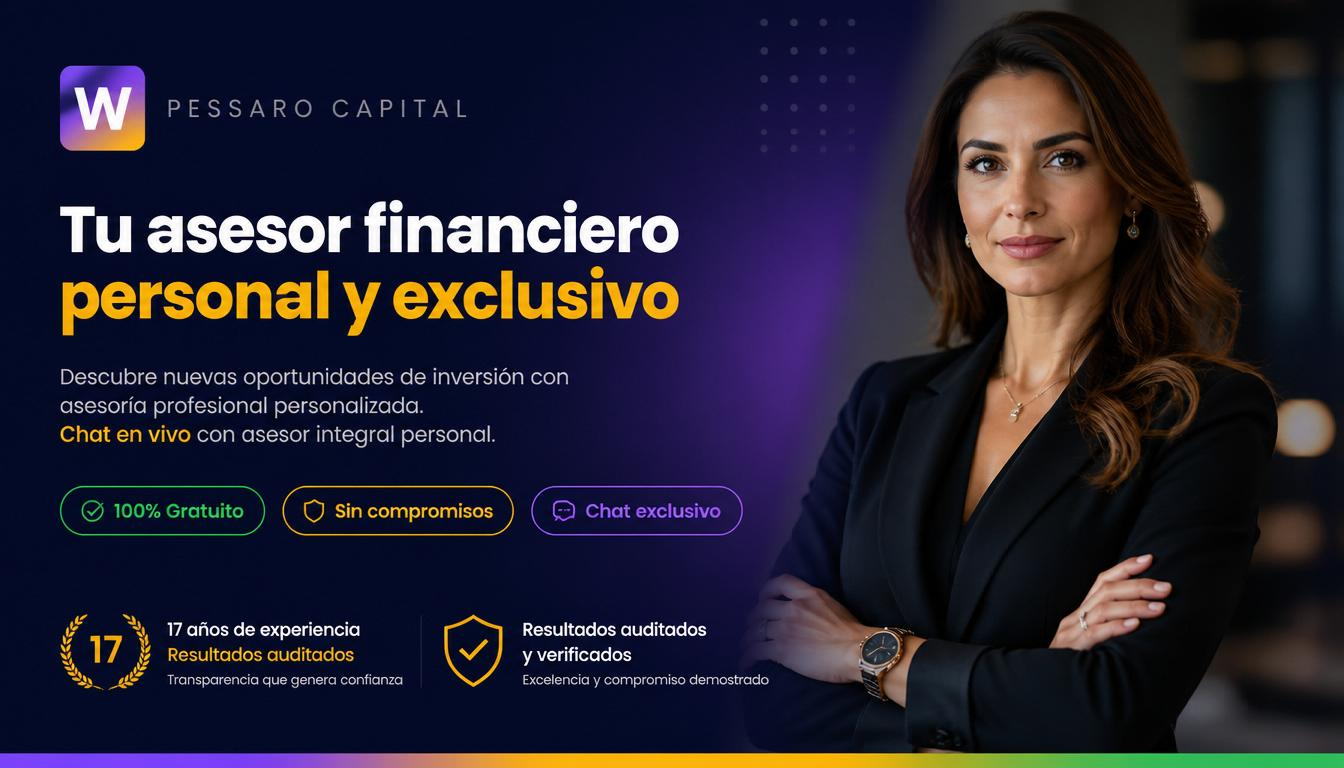
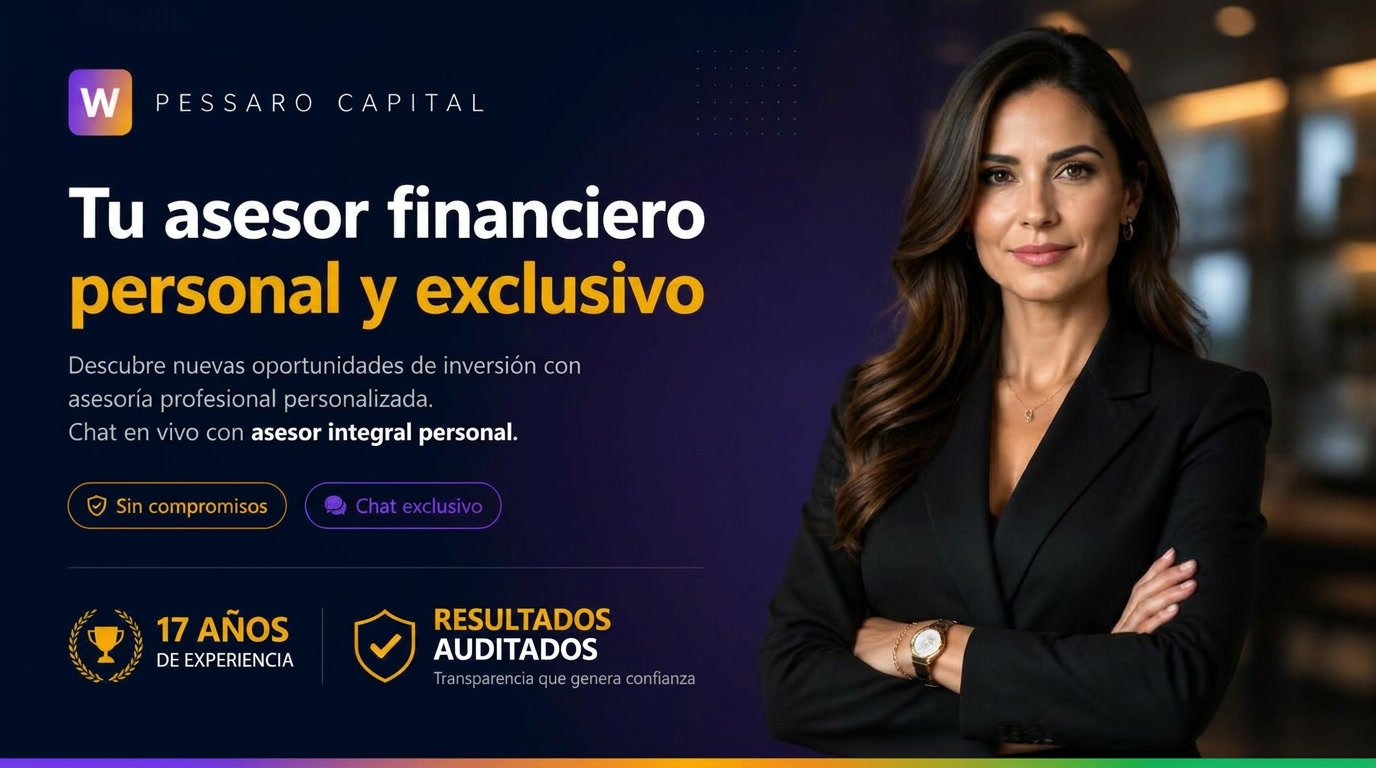
feat(wafinance): invitación v2 — imagen OG actualizada y badges sin '100% Gratuito'

diff --git a/src/components/whatsapp/WAFinanceInviteButton.jsx b/src/components/whatsapp/WAFinanceInviteButton.jsx
@@ -102,14 +102,14 @@ ${chatLink}`
 
             {/* Badges */}
             <div style={{ display: 'flex', gap: 8, marginBottom: 14, flexWrap: 'wrap' }}>
-              <span style={{ fontSize: 10, padding: '3px 10px', borderRadius: 20, background: 'rgba(16,185,129,0.12)', color: '#10b981', fontWeight: 600, border: '1px solid rgba(16,185,129,0.2)' }}>
-                100% Gratuito
-              </span>
               <span style={{ fontSize: 10, padding: '3px 10px', borderRadius: 20, background: `${GOLD}15`, color: GOLD, fontWeight: 600, border: `1px solid ${GOLD}30` }}>
                 Sin compromisos
               </span>
               <span style={{ fontSize: 10, padding: '3px 10px', borderRadius: 20, background: `${ACCENT}15`, color: ACCENT, fontWeight: 600, border: `1px solid ${ACCENT}30` }}>
                 Chat exclusivo
+              </span>
+              <span style={{ fontSize: 10, padding: '3px 10px', borderRadius: 20, background: `${GOLD}15`, color: GOLD, fontWeight: 600, border: `1px solid ${GOLD}30` }}>
+                Resultados auditados
               </span>
             </div>
 